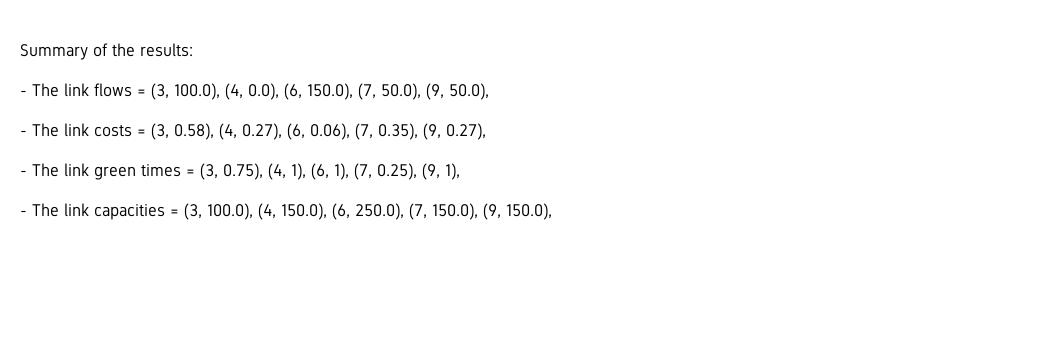
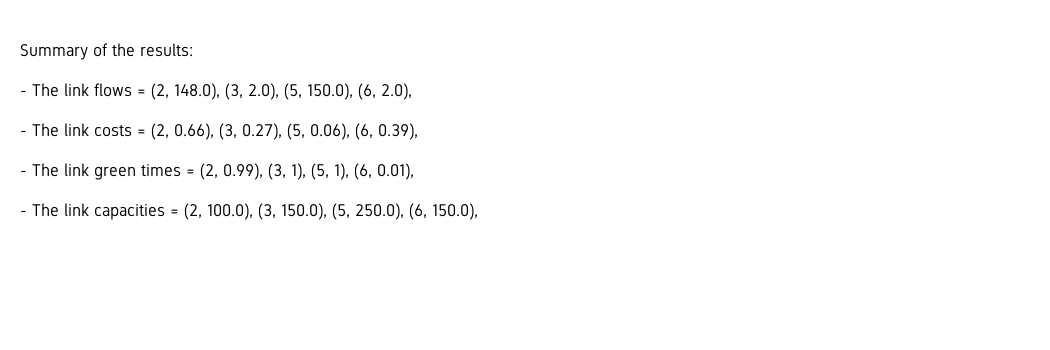
added some better comments

diff --git a/ownCode/main.py b/ownCode/main.py
@@ -29,7 +29,7 @@ def main():
         #two green time policies
         # 'equisaturation' 
         # 'P0'
-    methodGreen = 'equisaturation'
+    methodGreen = 'P0'
 
     # Chose your network type 
         # complex
@@ -38,7 +38,7 @@ def main():
         # two-node
         # two-node-two-od
         # two-node-three-od
-    network_type = 'merge'
+    network_type = 'simple'
 
     # Every element of this list is a tuple (x,y) with the coordinates of an origin or destination
     
@@ -57,7 +57,7 @@ def main():
     OD_flow = {
         'complex' :[(0,3,30),(1,3,30),(2,3,35)], #this one is saved for the complex network
         'merge' : [(0,2,100),(1,2,50)], #this one is saved for the merge network
-        'simple' : [(0,1,120)], #this one is saved for the merge network
+        'simple' : [(0,1,150)], #this one is saved for the merge network
         'two-node' : [(0,1,120)], #this one is saved for the two node signal network
         'two-node-two-od' : [(0,2,105),(1,2,25)], #this one is saved for the two node signal two od network
         'two-node-three-od' : [(0,3,80),(1,3,25),(2,3,25)] #this one is saved for the two node signal three od network
@@ -90,8 +90,8 @@ def main():
     # The first greens are automatically set to 0.5 to for all the intersecting links
     # For the 'two link merge intersections' a different distribution can be chosen for the initial green times
     # the more link merge intersections are always equal distributed no mather what argument is given, the argument is  
-    # a string type, chose one of the following: '[40,60]','[60,40]','[20,80]','[80,20]' or 'equal' for the respective distribution (in percentage)
-    firstGreens, non_connectors = generateFirstGreen(g,distribution = 'equal')
+    # a string type, chose one of the following: '40-60','60-40','20-80','80-20' or 'equal' for the respective distribution (in percentage)
+    firstGreens, non_connectors = generateFirstGreen(g,distribution = '40-60')
     print('first greens = {}'.format(firstGreens))
     print('non_connector links = {}'.format(non_connectors))
     
